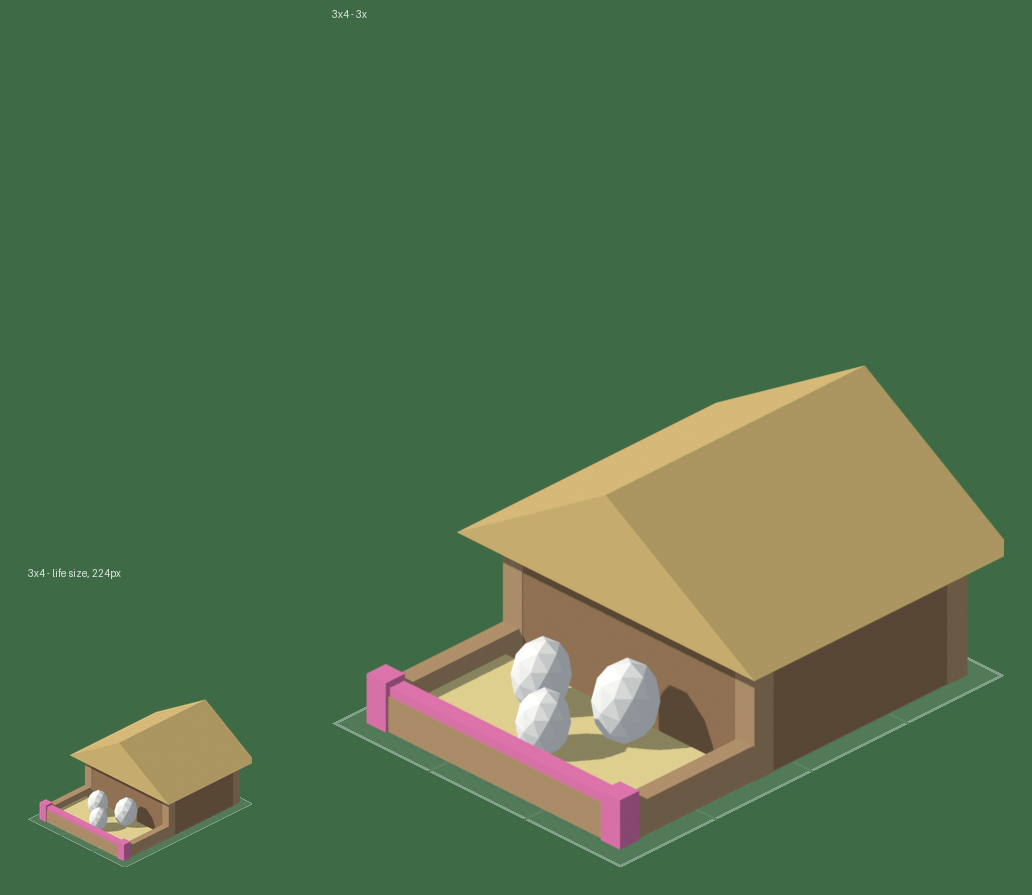
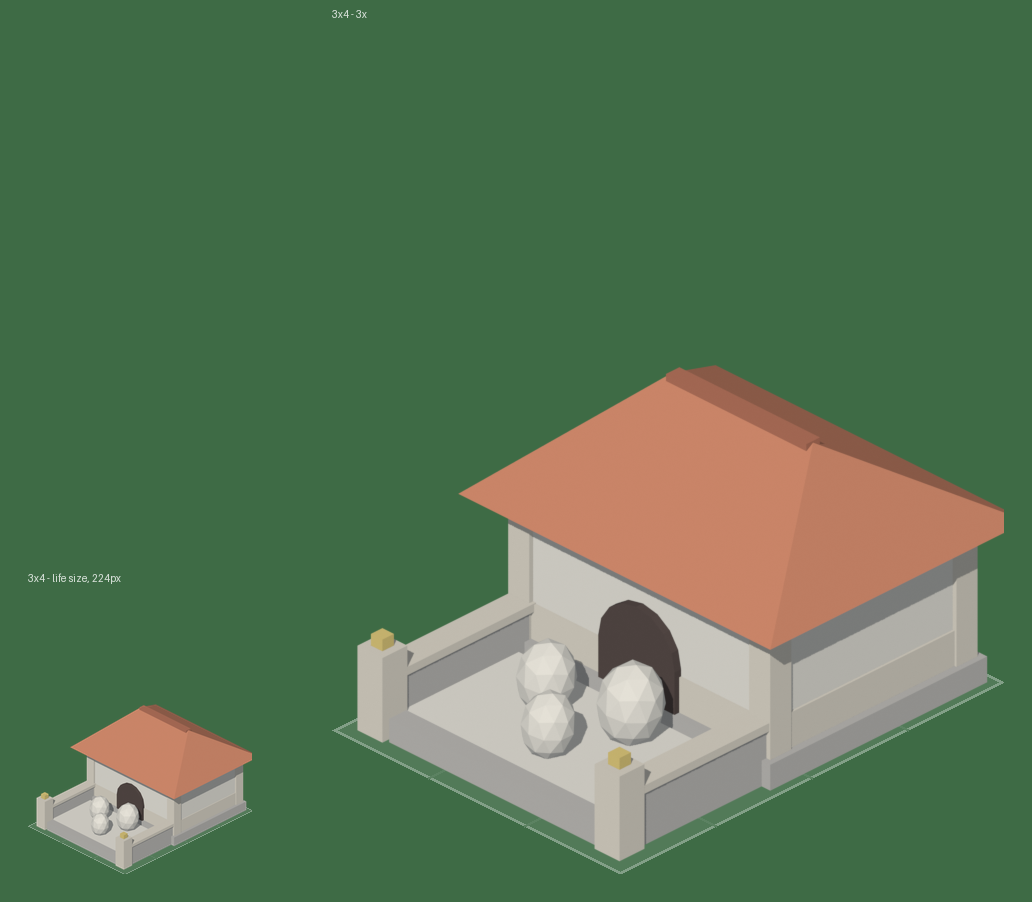
Fantasy Roman-medieval, as a palette and parts rather than a mood
The style turns out to fit the economy that already exists: the material ladder
refines clay in tier II and lime in tier III, so terracotta roofs over lime
stucco are not a costume — they are literally what the settlement learns to
make. Naming that in PALETTE and in hip_roof/arch/plinth makes it reusable;
naming it in prose would have made it a suggestion.

Three signals carry the whole thing at 224 px, and everything else is trim: a
hot terracotta roof, pale walls under it, a stone plinth it stands on. So the
Gemini prompt loses its "materials" knob entirely. A building that picks its own
palette is a building that stops matching the other thirty; say what it is and
what happens there, and the walls follow.

hip_roof replaces the gable for a reason beyond period. A gable shows one large
triangle to whichever side you face, which at this camera is a blank plate of
colour; a hip always shows two slopes at different angles to the sun, so it
shades itself. That self-shading is the whole reason low-poly reads as solid
rather than as coloured paper.

Four things cost a render each, all recorded where they bite:

  * The sun was lighting the two walls the camera never sees. The camera looks
    from +x/-y, so those are the only walls that matter, and lighting the other
    pair left the stucco to the ambient — grey, which is exactly the warmth it
    is chosen for.
  * The ridge cap sat proud of the apex, and together with the hip lines it read
[…]

Changed region(s): [[0.3411, 0.3922, 0.9922, 0.9654], [0.031, 0.7844, 0.2481, 0.9654], [0.062, 0.6335, 0.093, 0.6637]]

diff --git a/tool/blender/render_building.py b/tool/blender/render_building.py
@@ -41,6 +41,37 @@ SCALE = 4
 ELEVATION = math.degrees(math.asin(0.5))  # 30 — see the header
 
 
+# ── The style: fantasy Roman-medieval (user 2026-08-03) ────
+# Roman gives the ROOF and the arch, medieval gives the timber and the pitch,
+# fantasy gives permission to saturate all of it. In practice three signals do
+# almost all the work, and a building that has them reads correctly even at
+# 224 px where nothing else survives:
+#
+#   1. A TERRACOTTA roof. The single loudest signal, and the reason this style
+#      suits the game: the material ladder already refines clay in tier II, so
+#      the roofs literally are what the settlement learns to make.
+#   2. PALE walls — limestone, travertine, lime stucco — under that roof. The
+#      contrast between hot roof and cool wall IS the look.
+#   3. A STONE PLINTH the building stands on. Romans never set a wall on soil,
+#      and it also solves an art problem: the base reads as deliberately
+#      founded on its tiles instead of dropped onto them.
+#
+# Timber is trim, not structure: beams, posts, shutters, doors. A building that
+# is mostly timber has slid back to the Northern-European hut it came from.
+PALETTE = {
+    'tile': (0.72, 0.28, 0.16),        # terracotta pantile — the loudest note
+    'tile_dark': (0.55, 0.20, 0.12),   # its shadow side and the ridge
+    'stucco': (0.90, 0.85, 0.74),      # lime render, the wall default
+    'travertine': (0.82, 0.75, 0.62),  # cut stone, a shade warmer and darker
+    'ashlar': (0.58, 0.55, 0.50),      # the plinth and any heavy masonry
+    'oak': (0.35, 0.22, 0.13),         # beams, doors, shutters
+    'oak_light': (0.50, 0.34, 0.20),   # posts catching the sun
+    'iron': (0.24, 0.24, 0.27),        # fittings, hinges, grilles
+    'gold': (0.85, 0.66, 0.22),        # finials — a few square pixels, no more
+    'dark': (0.11, 0.08, 0.07),        # an opening, read as depth
+}
+
+
 # ── Materials ──────────────────────────────────────────────
 def flat(name, rgb):
     """One flat colour. No specular, no roughness games — a facet is a facet."""
@@ -93,6 +124,105 @@ def gable(name, x, y, z, sx, sy, h, mat, overhang=0.25):
     return ob
 
 
+_MATS = {}
+
+
+def mat(key):
+    """A palette colour, made once. Reaching for a raw RGB instead of a palette
+    key is how a set of buildings stops matching after the third one."""
+    if key not in _MATS:
+        _MATS[key] = flat(key, PALETTE[key])
+    return _MATS[key]
+
+
+def hip_roof(name, x, y, z, sx, sy, h, key='tile', overhang=0.3, ridge=0.45):
+    """The Roman roof: four slopes falling to a short ridge.
+
+    A gable shows one big triangle to whichever side you face, which at this
+    camera angle is a blank wall of colour. A hip roof always shows two slopes
+    at different angles to the sun, so it shades itself — which is the whole
+    reason low-poly reads as solid rather than as coloured paper.
+
+    [ridge] is the ridge's length as a fraction of the long side. At 0 this is
+    a pyramid; at 1 it is a gable. Around 0.45 is the shape that says "Roman".
+    """
+    sx += overhang * 2
+    sy += overhang * 2
+    long_y = sy >= sx
+    r = (sy if long_y else sx) * ridge / 2
+    verts = [
+        (-sx / 2, -sy / 2, 0), (sx / 2, -sy / 2, 0),
+        (sx / 2, sy / 2, 0), (-sx / 2, sy / 2, 0),
+    ]
+    if long_y:
+        verts += [(0, -r, h), (0, r, h)]
+    else:
+        verts += [(-r, 0, h), (r, 0, h)]
+    faces = ([(0, 1, 4), (2, 3, 5), (0, 4, 5, 3), (1, 2, 5, 4), (0, 3, 2, 1)]
+             if long_y else
+             [(1, 2, 5), (3, 0, 4), (0, 1, 5, 4), (2, 3, 4, 5), (0, 3, 2, 1)])
+    mesh = bpy.data.meshes.new(name)
+    mesh.from_pydata(verts, [], faces)
+    mesh.update()
+    ob = bpy.data.objects.new(name, mesh)
+    bpy.context.collection.objects.link(ob)
+    ob.location = (x, y, z)
+    ob.data.materials.append(mat(key))
+    for p in ob.data.polygons:
+        p.use_smooth = False
+
+    # The ridge cap, in the darker tile. It must sit DOWN in the ridge, not on
+    # top of it: proud of the apex it reads as a beam laid across the roof, and
+    # together with the hip lines that beam looks like a cross.
+    cap_l, cap_w, cap_h = 2 * r, 0.14, 0.08
+    box(f'{name}_ridge', x, y, z + h - cap_h * 0.8,
+        cap_l if long_y is False else cap_w,
+        cap_w if long_y is False else cap_l,
+        cap_h, mat('tile_dark'))
+    return ob
+
+
+def plinth(name, x, y, sx, sy, h=0.22, key='ashlar'):
+    """The stone course a wall stands on. Never build straight onto the soil."""
+    return box(name, x, y, 0, sx, sy, h, mat(key))
+
+
+def arch(name, x, y, z, w, h, depth, key='dark', segments=4):
+    """An opening with a rounded head, faceted like everything else.
+
+    Drawn as the DARK inside rather than as a frame: at this size an arch is
+    read by its silhouette against a pale wall, and an outline around a hole
+    the same colour as the wall is not a silhouette.
+    """
+    r = w / 2
+    straight = max(0.0, h - r)
+    pts = [(-r, 0.0), (-r, straight)]
+    for i in range(1, segments):
+        a = math.pi * i / (2 * segments)
+        pts.append((-r * math.cos(a), straight + r * math.sin(a)))
+    pts.append((0.0, straight + r))
+    pts += [(-px, py) for px, py in reversed(pts[:-1])]
+
+    verts, faces = [], []
+    for px, pz in pts:
+        verts.append((px, -depth / 2, pz))
+        verts.append((px, depth / 2, pz))
+    n = len(pts)
+    for i in range(n - 1):
+        faces.append((2 * i, 2 * i + 1, 2 * i + 3, 2 * i + 2))
+    faces.append(tuple(range(0, 2 * n, 2)))          # the flat back
+    mesh = bpy.data.meshes.new(name)
+    mesh.from_pydata(verts, [], faces)
+    mesh.update()
+    ob = bpy.data.objects.new(name, mesh)
+    bpy.context.collection.objects.link(ob)
+    ob.location = (x, y, z)
+    ob.data.materials.append(mat(key))
+    for p in ob.data.polygons:
+        p.use_smooth = False
+    return ob
+
+
 # ── The buildings ──────────────────────────────────────────
 # Each preset gets the footprint it has in the roster and builds itself inside
 # it. NOTHING may cross the base except a roof overhang — the same rule the art
@@ -114,57 +244,79 @@ def egg(name, x, y, z, r, mat):
 
 
 def breeding_hut(w, h):
-    """A hut at the back, an open nesting yard at the front, eggs in it.
+    """A stuccoed hall under a terracotta roof, with a walled nesting court.
 
     The read has to survive being 224 px wide on a phone, so the identity is
-    carried by SILHOUETTE and one accent colour, not by detail: a deep roof over
-    a dark opening, and three pale eggs sitting in bright straw where nothing
-    else competes for attention.
+    carried by SILHOUETTE and contrast, not by detail: a hot tile roof over pale
+    walls, an arched mouth of pure black under it, and three white eggs on warm
+    sand in an open court where nothing else competes for attention.
+
+    The court is the Roman part that does the most work here — a building with a
+    walled forecourt is legible as one property from any angle, where a hut with
+    things scattered in front of it is legible as a hut with clutter.
     """
-    timber = flat('timber', (0.36, 0.20, 0.10))
-    beam = flat('beam', (0.52, 0.32, 0.16))
-    thatch = flat('thatch', (0.72, 0.50, 0.18))
-    straw = flat('straw', (0.88, 0.72, 0.30))
-    shell = flat('shell', (0.96, 0.93, 0.85))
-    dark = flat('dark', (0.13, 0.09, 0.07))   # the opening, read as depth
-    rose = flat('rose', (0.86, 0.20, 0.44))   # the one accent
+    wall_h = 1.15
+    body_d = h * 0.52
+    body_w = w - 0.35
+    body_y = h / 2 - body_d / 2 - 0.18         # pushed to the back
 
-    wall_h = 1.05
-    body_d = h * 0.55
-    body_w = w - 0.4
-    body_y = h / 2 - body_d / 2 - 0.2          # pushed to the back
+    plinth('plinth', 0, body_y, body_w + 0.18, body_d + 0.18)
+    box('body', 0, body_y, 0.22, body_w, body_d, wall_h, mat('stucco'))
+    # A course of cut stone at the base of the render: Roman walls change
+    # material as they rise, and the change is what stops a wall reading as one
+    # blank rectangle of light.
+    box('course', 0, body_y, 0.22, body_w + 0.04, body_d + 0.04, 0.3,
+        mat('travertine'))
+    # The doorway. Two arches, not one: the travertine surround is what makes
+    # the dark shape read as an OPENING. On its own the hole is a black blob
+    # leaning on the wall, because a pale wall and a dark patch share no edge
+    # the eye can call a frame. It also stands ON the plinth — an opening that
+    # floats above the floor is the other half of that same illusion.
+    # arch() builds a SOLID body, not a ring, so the surround must sit BEHIND
+    # the mouth and be larger — it is seen only as the rim that survives around
+    # the dark shape. Put it in front, as I first did, and it simply plugs the
+    # hole and the doorway disappears.
+    door_w, door_h = body_w * 0.30, wall_h * 0.66
+    face_y = body_y - body_d / 2
+    arch('surround', 0, face_y + 0.17, 0.22,
+         door_w + 0.20, door_h + 0.10, 0.22, key='travertine')
+    arch('mouth', 0, face_y + 0.04, 0.22, door_w, door_h, 0.22)
+    hip_roof('roof', 0, body_y, 0.22 + wall_h, body_w, body_d, 0.85)
 
-    box('body', 0, body_y, 0, body_w, body_d, wall_h, timber)
-    box('mouth', 0, body_y - body_d / 2 + 0.06, 0.05,
-        body_w * 0.55, 0.1, wall_h * 0.72, dark)
-    gable('roof', 0, body_y, wall_h, body_w, body_d, 0.95, thatch)
-
+    # Corner pilasters — travertine, not timber. Timber corners drag the whole
+    # thing back to a Northern hut; stone corners under a tile roof are Roman.
     for sx in (-1, 1):
         for sy in (-1, 1):
-            box('post', sx * (body_w / 2 - 0.09), body_y + sy * (body_d / 2 - 0.09),
-                0, 0.2, 0.2, wall_h, beam)
+            box('pilaster', sx * (body_w / 2 - 0.07),
+                body_y + sy * (body_d / 2 - 0.07), 0.22,
+                0.22, 0.22, wall_h, mat('travertine'))
 
-    # The nesting yard: a straw bed, sunk between four low kerbs so it reads as
-    # a pen and not as a rug someone dropped.
-    yard_d = h - body_d - 0.4
-    yard_y = body_y - body_d / 2 - yard_d / 2
-    yard_w = w - 0.4
-    box('bed', 0, yard_y, 0, yard_w - 0.3, yard_d - 0.3, 0.14, straw)
+    # ── The court ──
+    court_d = h - body_d - 0.35
+    court_y = body_y - body_d / 2 - court_d / 2
+    court_w = w - 0.35
+    box('sand', 0, court_y, 0, court_w - 0.3, court_d - 0.3, 0.16,
+        mat('stucco'))
+    # Low walls, not a fence: masonry on three sides, open to the front so the
+    # eggs are visible. Capped in travertine so the top edge catches light.
     for sx in (-1, 1):
-        box('kerb', sx * (yard_w / 2 - 0.08), yard_y, 0, 0.16, yard_d, 0.3, beam)
-    box('kerb_front', 0, yard_y - yard_d / 2 + 0.08, 0, yard_w, 0.16, 0.3, beam)
-    # The gate is a LOW rail, and that is the whole point: the eggs are what the
-    # building says about itself, so nothing may stand in front of them. A
-    # full-height gate in the accent colour reads first and hides the message.
-    gate_y = yard_y - yard_d / 2 + 0.08
+        box('court_wall', sx * (court_w / 2 - 0.09), court_y, 0,
+            0.18, court_d, 0.46, mat('ashlar'))
+        box('court_cap', sx * (court_w / 2 - 0.09), court_y, 0.46,
+            0.24, court_d, 0.07, mat('travertine'))
+    front_y = court_y - court_d / 2 + 0.09
     for sx in (-1, 1):
-        box('gatepost', sx * (yard_w / 2 - 0.08), gate_y, 0, 0.2, 0.2, 0.42,
-            rose)
-    box('rail', 0, gate_y, 0.28, yard_w, 0.14, 0.1, rose)
+        box('gatepost', sx * (court_w / 2 - 0.09), front_y, 0,
+            0.26, 0.26, 0.72, mat('travertine'))
+        box('finial', sx * (court_w / 2 - 0.09), front_y, 0.72,
+            0.12, 0.12, 0.1, mat('gold'))
+    # The threshold between the posts stays LOW: the eggs are what the building
+    # says about itself, and nothing may stand in front of them.
+    box('threshold', 0, front_y, 0, court_w - 0.5, 0.18, 0.2, mat('ashlar'))
 
-    egg('egg_a', -0.42, yard_y + 0.20, 0.14, 0.23, shell)
-    egg('egg_b', 0.34, yard_y + 0.32, 0.14, 0.26, shell)
-    egg('egg_c', 0.06, yard_y - 0.26, 0.14, 0.21, shell)
+    egg('egg_a', -0.42, court_y + 0.20, 0.16, 0.23, mat('stucco'))
+    egg('egg_b', 0.34, court_y + 0.32, 0.16, 0.26, mat('stucco'))
+    egg('egg_c', 0.06, court_y - 0.26, 0.16, 0.21, mat('stucco'))
 
 
 PRESETS = {'breeding_hut': (breeding_hut, 3, 4)}
@@ -216,16 +368,27 @@ def light():
 
     bpy.ops.object.light_add(type='SUN')
     sun = bpy.context.object
-    sun.data.energy = 2.6
+    # 2.6 blew the pale walls out to near-white, which cost the stucco exactly
+    # the warmth it is chosen for. Flat colour has no highlight roll-off to
+    # rescue it — what clips is simply gone.
+    sun.data.energy = 2.1
     sun.data.angle = 0  # hard-edged shadows; a soft one is a gradient
-    # From the upper front-left, so the two visible walls get clearly different
-    # amounts of it and the roof gets the most. That difference IS the shading.
-    sun.rotation_euler = (math.radians(48), 0, math.radians(-35))
+
+    # The sun must be on the CAMERA's side of the building. The camera looks
+    # from +x/-y, so the two walls a player ever sees are the +x and -y faces;
+    # lighting from -x/-y (the first attempt) lit one of them and left the big
+    # one to the ambient, which is why the stucco came out grey instead of warm.
+    # Travel direction here is (-x, +y, -z): over the shoulder, but off-axis
+    # enough that the two visible walls still differ. That difference IS the
+    # shading — light them equally and the building goes flat.
+    sun.rotation_euler = (math.radians(50), 0, math.radians(32))
 
     scene.world.use_nodes = True
     bg = scene.world.node_tree.nodes['Background']
-    bg.inputs['Color'].default_value = (0.62, 0.70, 0.82, 1)  # cool sky fill…
-    bg.inputs['Strength'].default_value = 0.45                # …against a warm sun
+    # Cool fill against a warm sun, but weak: the fill lands hardest on exactly
+    # the faces the sun misses, so a strong one greys out the shadow side.
+    bg.inputs['Color'].default_value = (0.66, 0.72, 0.82, 1)
+    bg.inputs['Strength'].default_value = 0.32
 
 
 def frame(w, h, px_per_tile, headroom):

diff --git a/docs/building_art_prompt.md b/docs/building_art_prompt.md
@@ -12,6 +12,12 @@ STYLE: faceted low-poly — flat colour per facet, no gradients, no textures, no
 outlines. 3-5 tones per colour family: one lit facet, one mid, one shadow, in
 sharp angular patches. Bold, saturated, warm-lit, toy-like, not gritty.
 
+WORLD: fantasy Roman-medieval. Terracotta pantile roofs, hipped with a short
+ridge and a deep overhang. Pale walls under them — lime stucco, travertine,
+limestone — on a cut-stone plinth, never straight on the ground. Round arches
+for doors and openings, stone pilasters at the corners. Dark oak is TRIM only:
+beams, doors, shutters, railings. Iron fittings, small gold finials.
+
 VIEW: true 2:1 isometric, PARALLEL projection — no perspective, no vanishing
 point. The near corner points at the bottom of the image; one wall faces
 bottom-left, the other bottom-right, roof visible. Upright, not tilted.
@@ -25,10 +31,18 @@ diamond when W = H, otherwise a parallelogram of that many tiles). It fills the
 image's width and touches its bottom edge. The building may be as tall as it
 needs; leave the space above it empty.
 
-BUILDING: <TYPE> — <one line: what it is, what happens there>. Materials:
-<timber and thatch / clay brick / cut stone / iron and glass>. Colours:
-<primary>, <secondary>, <accent>. Features: <2-4 concrete shapes>.
+BUILDING: <TYPE> — <one line: what it is, what happens there>. Features:
+<2-4 concrete shapes>.
 ```
+
+**Why no material knob any more:** the materials ARE the style. A building that
+picks its own palette is a building that stops matching the other thirty. Say
+what it *is* and what happens there; the walls follow.
+
+**The three signals that carry it at 224 px:** a hot terracotta roof, pale walls
+under it, and a stone plinth it stands on. Get those and the style reads even
+when no other detail survives. Timber-framed walls slide the whole thing back to
+a Northern-European hut — keep oak to trim.
 
 **Why no ground:** the map draws the tile the building stands on. Any terrain in
 the PNG lands as a patch of someone else's grass on top of it — which is exactly

diff --git a/docs/blender_pipeline.md b/docs/blender_pipeline.md
@@ -68,6 +68,34 @@ ein Render in voller Grösse sieht immer gut aus.
 | `--no-render` | Szene bauen und aufhören (für die GUI) |
 | `--blend PFAD` | Szene zusätzlich als .blend speichern |
 
+## Der Stil: Fantasy römisch-mittelalterlich
+
+Römisch liefert das Dach und den Bogen, mittelalterlich das Holzwerk und die
+Neigung, Fantasy die Erlaubnis, alles zu sättigen. `PALETTE` in
+[render_building.py](../tool/blender/render_building.py) ist die einzige
+Farbquelle — greif nie zu einem rohen RGB, so hört ein Set nach dem dritten
+Gebäude auf zusammenzupassen.
+
+**Drei Signale tragen den Stil bei 224 px, alles andere ist Zierde:**
+
+1. **Terrakotta-Dach**, gewalmt mit kurzem First und tiefem Überstand. Das
+   lauteste Signal — und der Grund, warum der Stil zum Spiel passt: die
+   Materialleiter raffiniert in Stufe II bereits Lehm. Die Dächer *sind*, was
+   die Siedlung zu brennen lernt.
+2. **Helle Wände** darunter — Kalkputz, Travertin. Der Kontrast zwischen heissem
+   Dach und kühler Wand *ist* der Look.
+3. **Ein Steinsockel.** Römer setzten keine Wand auf Erde. Löst nebenbei ein
+   Bildproblem: das Gebäude wirkt auf seine Kacheln gegründet statt daraufgelegt.
+
+Holz ist **Zierde, nicht Konstruktion** — Balken, Türen, Läden, Geländer. Ein
+überwiegend hölzernes Gebäude rutscht zurück in die nordeuropäische Hütte.
+
+Bausteine: `hip_roof()`, `arch()`, `plinth()`, `box()`, `egg()`. Zwei Fallen,
+beide teuer gelernt: `arch()` liefert einen **massiven Körper, keinen Ring** —
+das Gewände muss also *hinter* der Öffnung liegen und grösser sein, sonst
+verstopft es sie. Und der Firstbalken muss **im** First sitzen; steht er darüber,
+liest er zusammen mit den Gratlinien als Kreuz auf dem Dach.
+
 ## Ein neues Gebäude
 
 Eine Funktion in `tool/blender/render_building.py`, ein Eintrag in `PRESETS`:
